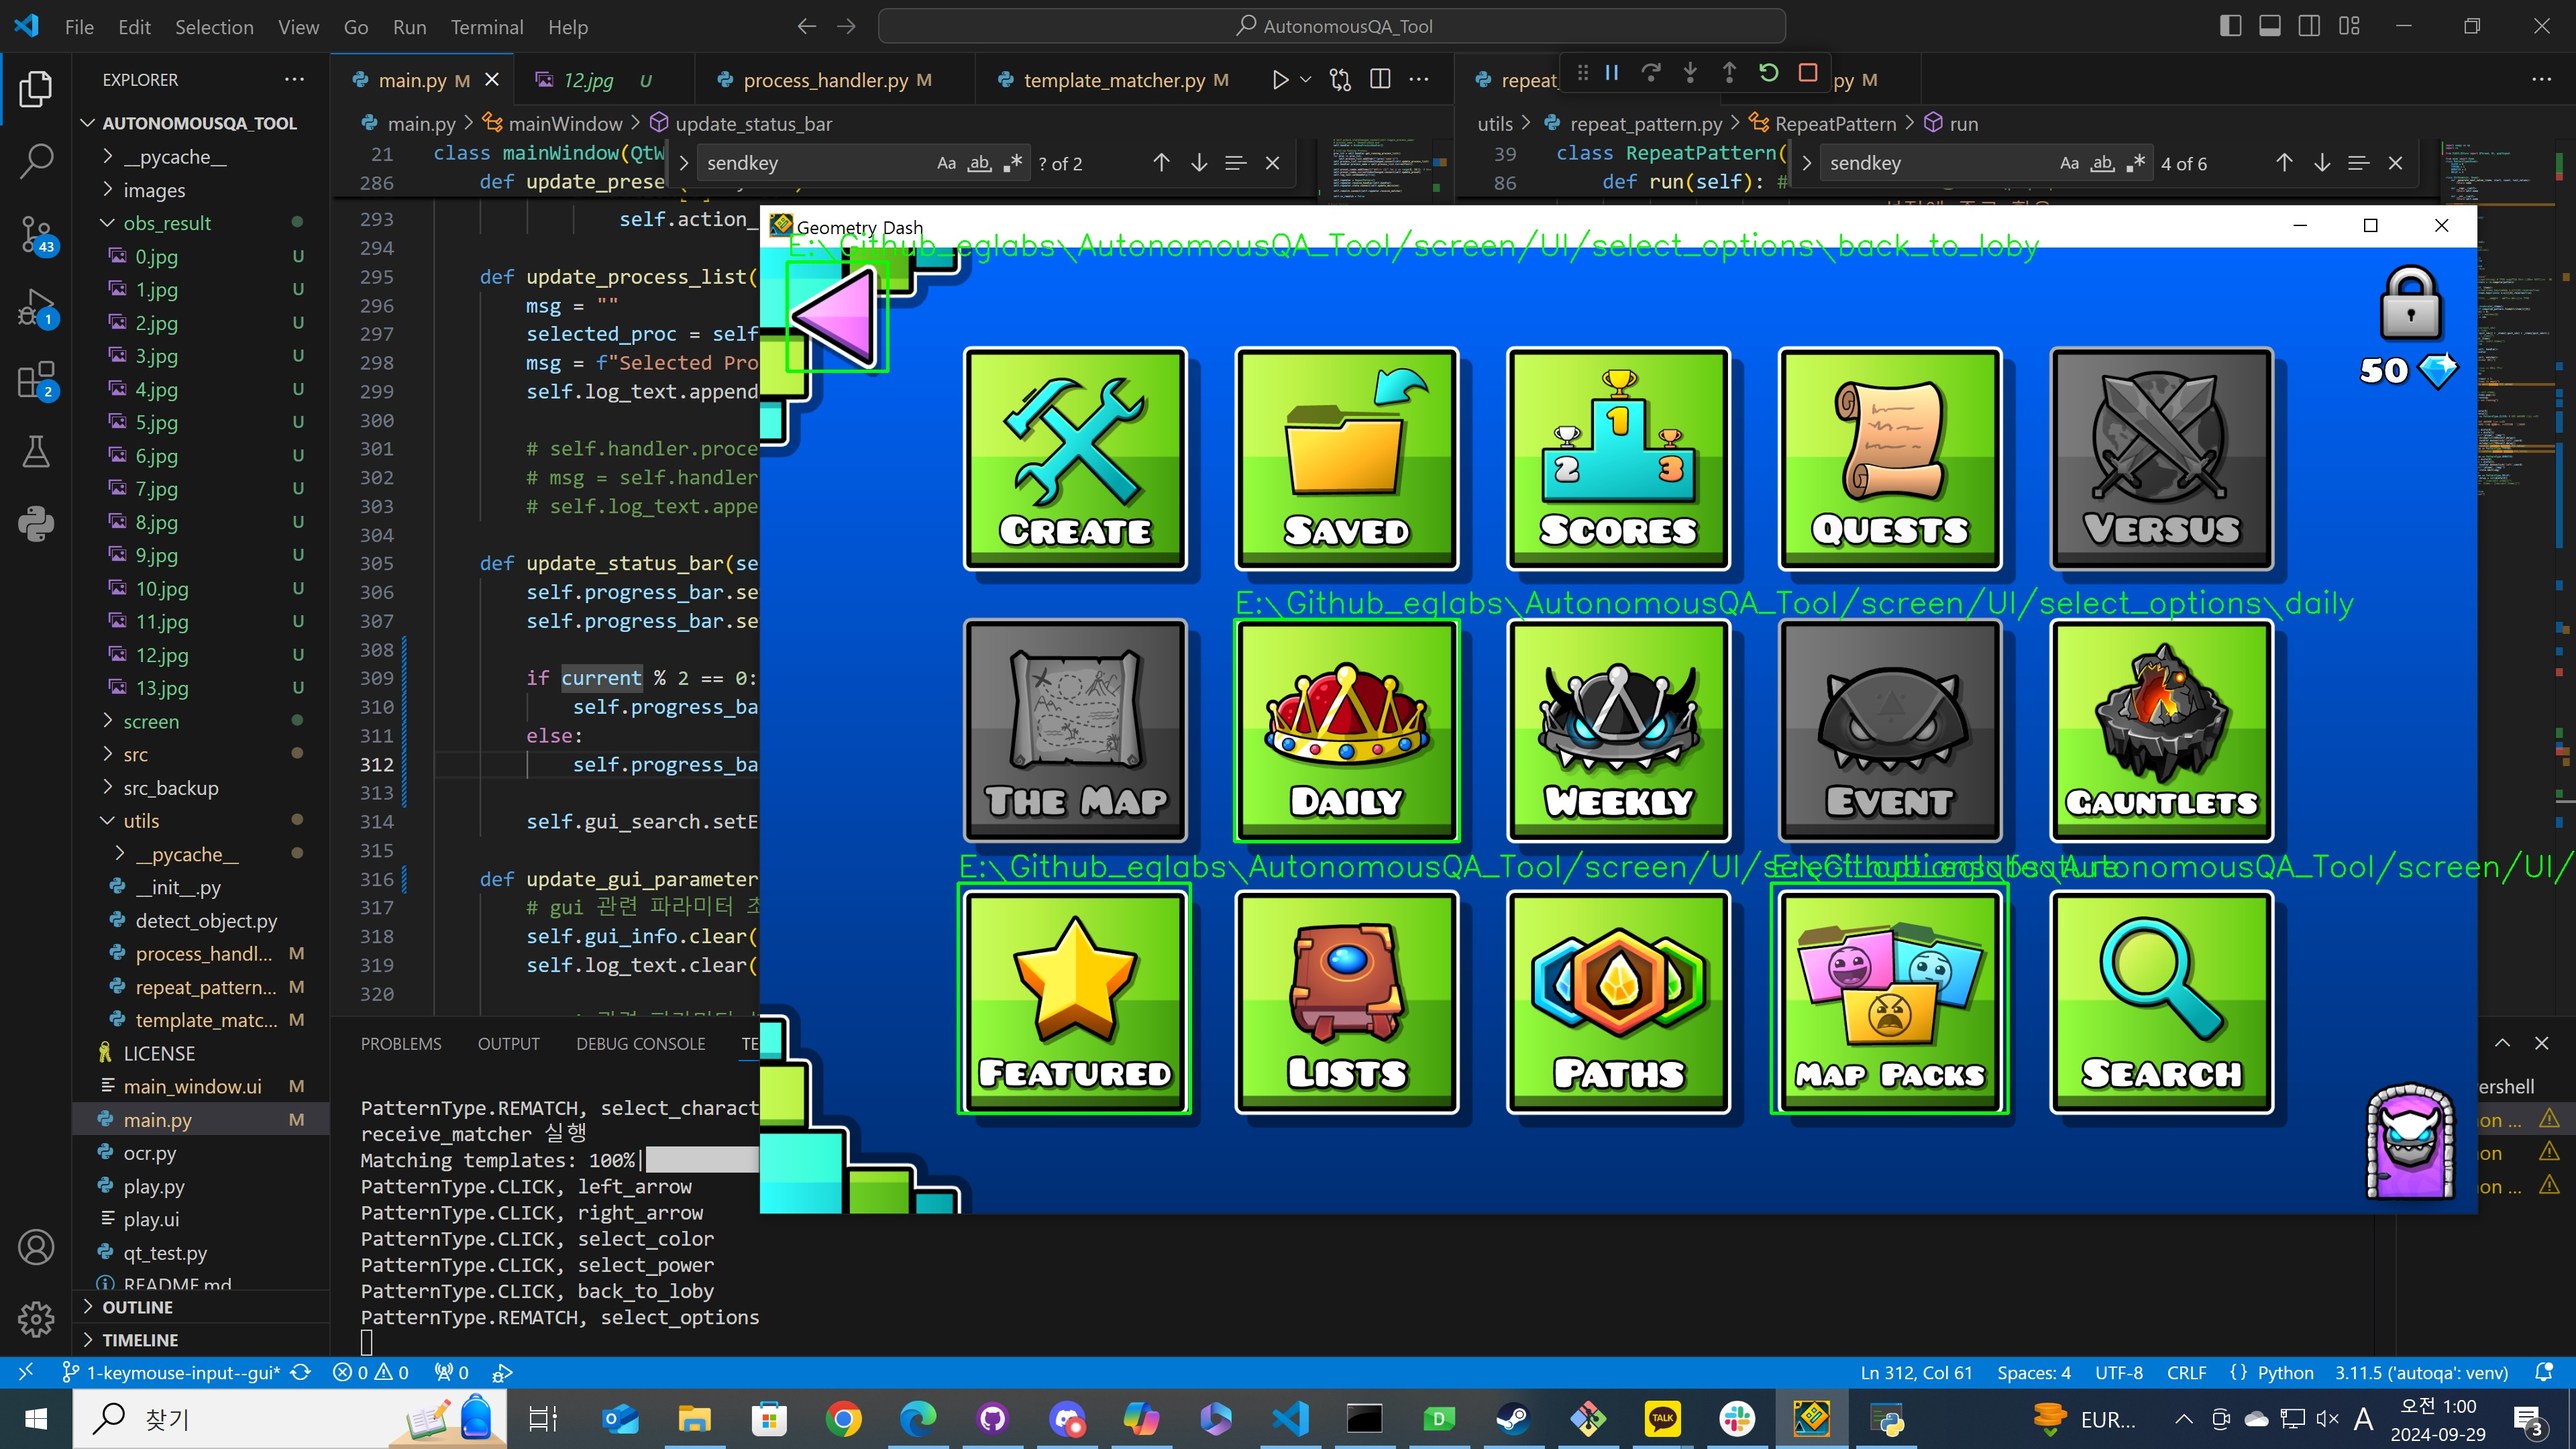
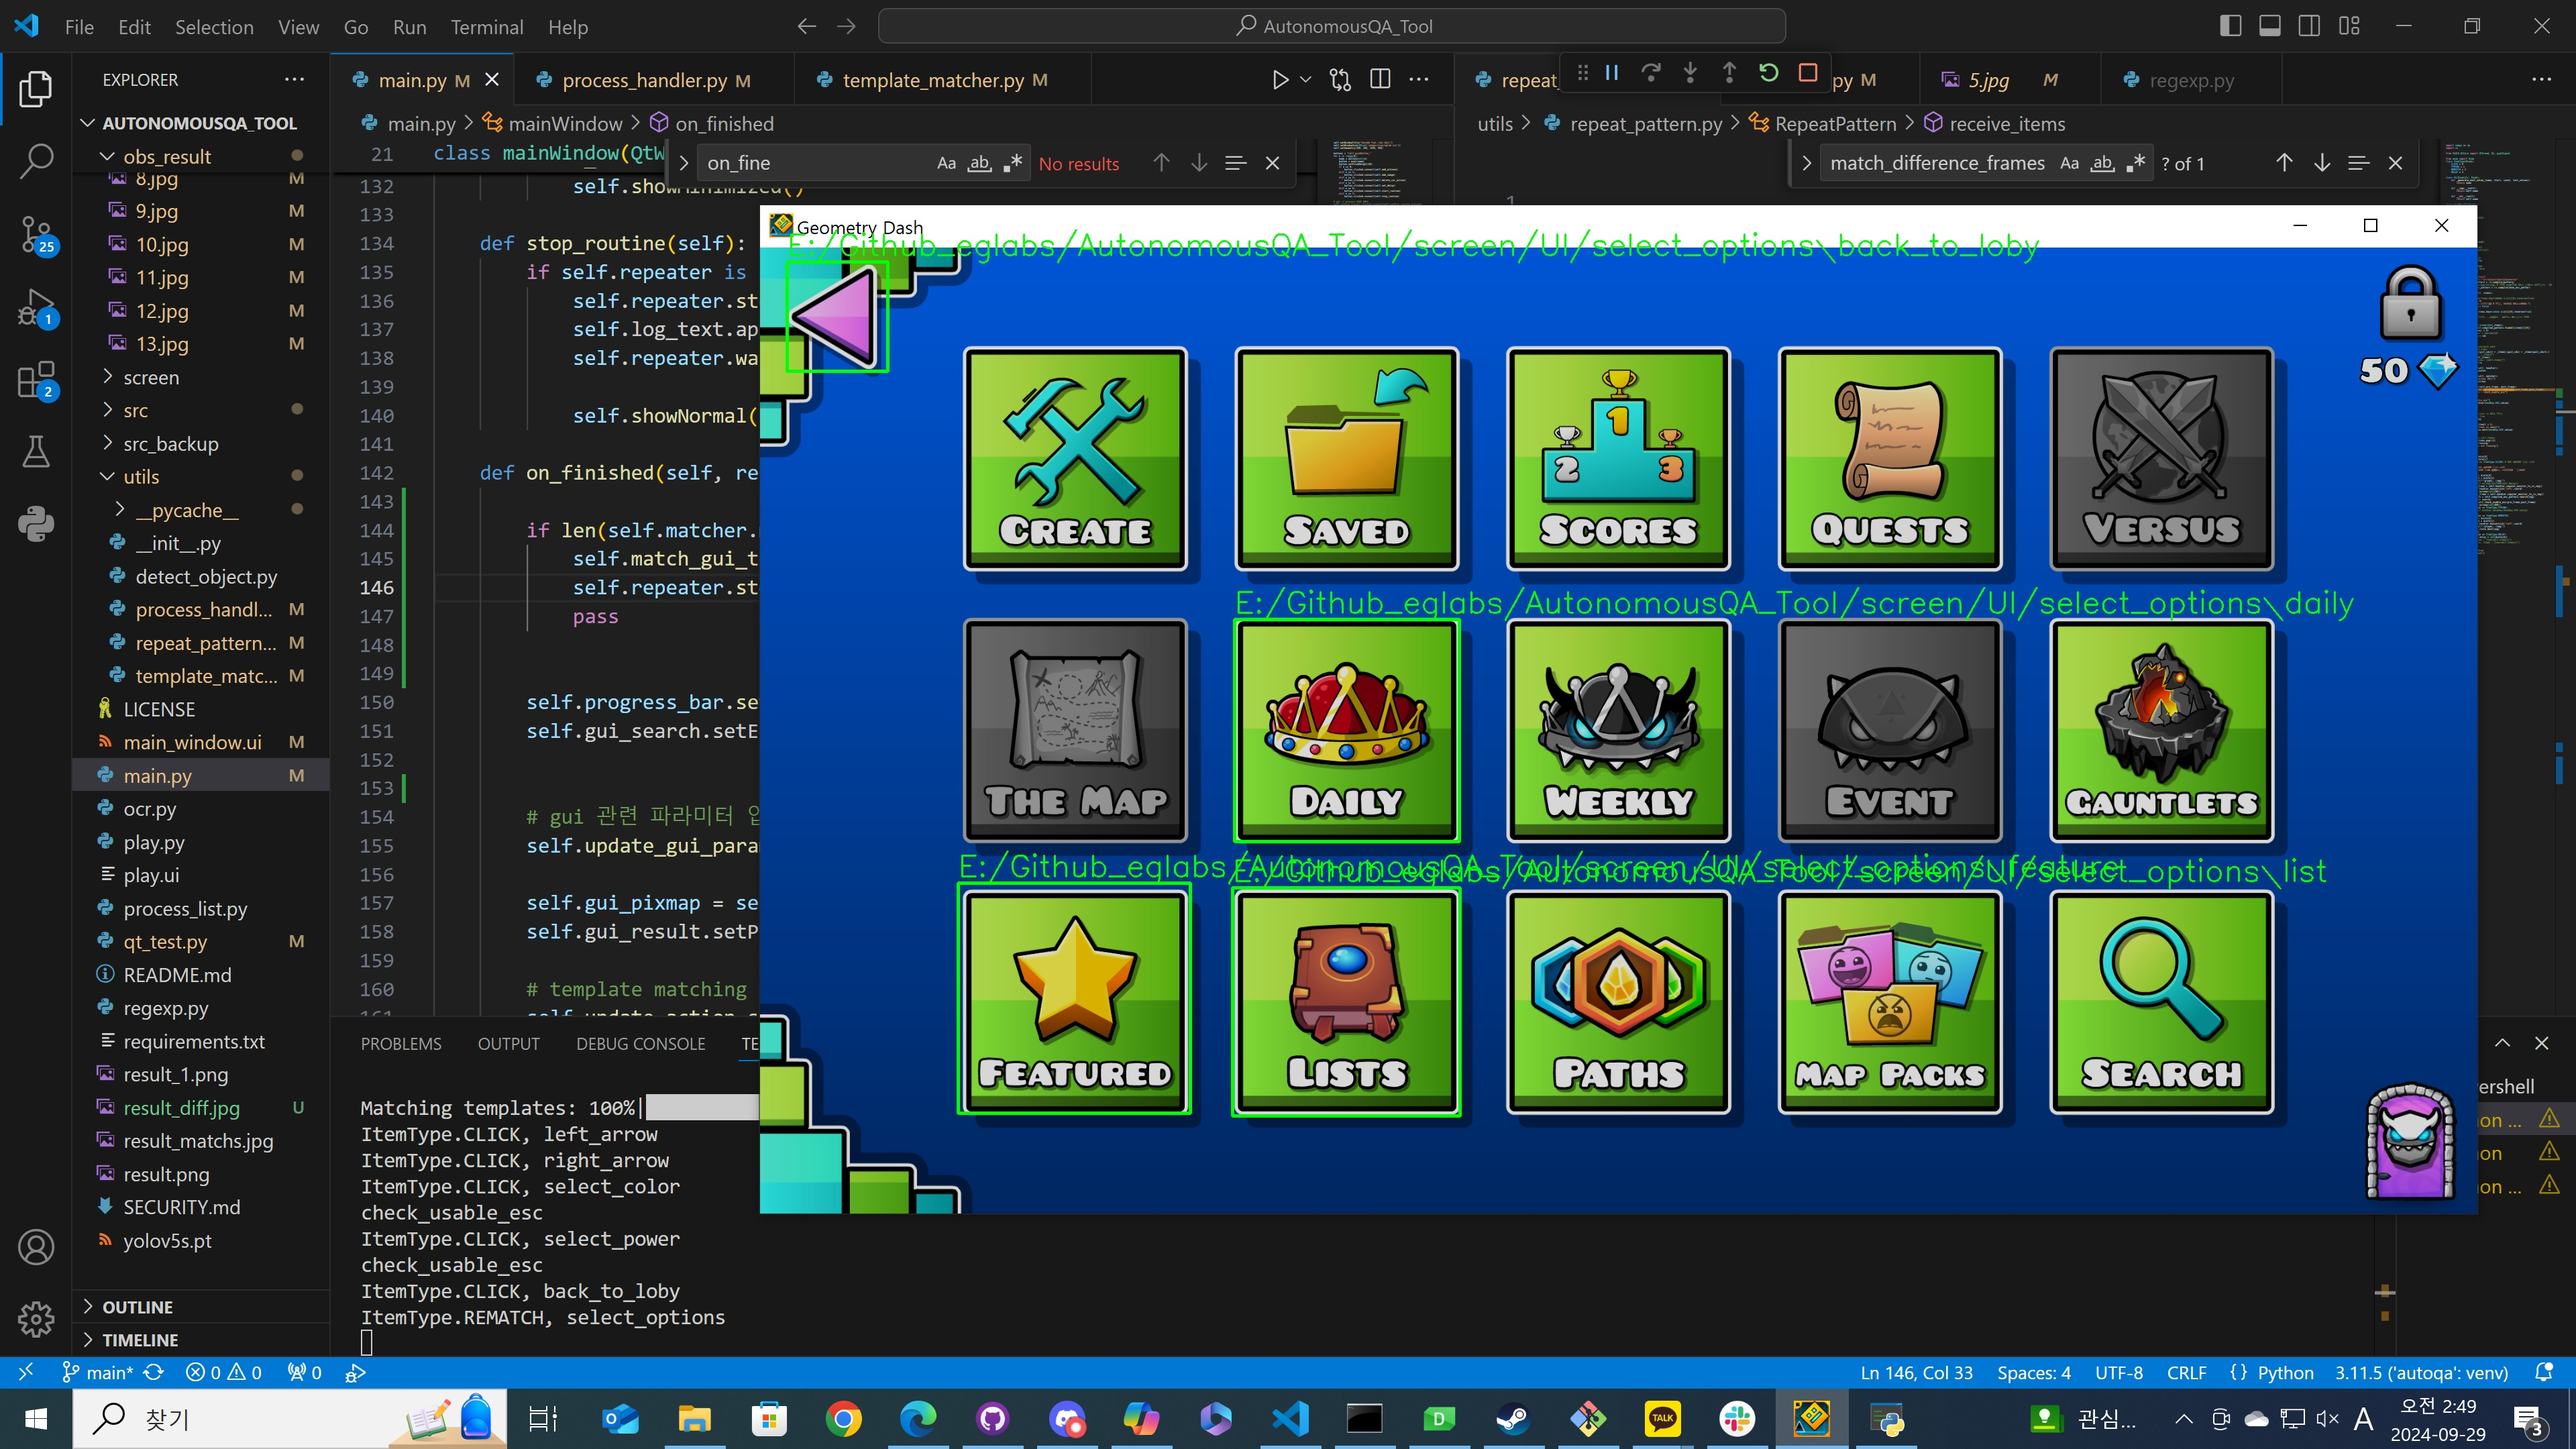
[Update] 키 오류 부분 수정

diff --git a/main.py b/main.py
@@ -73,6 +73,8 @@ class mainWindow(QtWidgets.QMainWindow):
         
         self.gui_pixmap = QPixmap()
         
+        self.auto_play.clicked.connect(self.play_auto)
+        
         # 프로세스 handler
         # process_name = 'Geometry Dash'
         # self.process_name.setText(process_name)
@@ -100,6 +102,8 @@ class mainWindow(QtWidgets.QMainWindow):
         
         self.is_rematch = False
         
+        
+        
 
     # Event Section
     def resizeEvent(self, event):
@@ -108,6 +112,12 @@ class mainWindow(QtWidgets.QMainWindow):
 
     def closeEvent(self, event):
         event.accept()
+    
+    def play_auto(self):
+        self.confirm_running_process()
+        self.match_gui_templates()
+        # self.start_routine()
+        
     
     # Function Section
     def start_routine(self):
@@ -130,8 +140,16 @@ class mainWindow(QtWidgets.QMainWindow):
             self.showNormal()
     
     def on_finished(self, result_image):
+        
+        if len(self.matcher.matches) == 0:
+            self.match_gui_templates()
+            self.repeater.stop()
+            pass
+        
+        
         self.progress_bar.setFormat(" I got it.! ")
         self.gui_search.setEnabled(True)
+        
         
         # gui 관련 파라미터 업데이트
         self.update_gui_parameters(self.matcher)
@@ -151,6 +169,7 @@ class mainWindow(QtWidgets.QMainWindow):
         # else:
             # self.showNormal()
         
+        self.start_routine()    
 
     def open_browser(self):
         # options = QtWidgets.QFileDialog.Options()
@@ -203,11 +222,11 @@ class mainWindow(QtWidgets.QMainWindow):
         image = self.handler.caputer_monitor_to_cv_img()
 
         # threshhold = 0.9
-        self.matcher = UITemplateMatcher(image,templates, scale_range=(0.7, 1.2), scale_step=0.1)#,threshold=threshhold)
+        self.matcher = UITemplateMatcher(image,templates, scale_range=(0.7, 1.0), scale_step=0.1)#,threshold=threshhold)
         self.matcher.update_progress.connect(self.update_status_bar)  # 시그널 연결
         self.matcher.finished.connect(self.on_finished)  # 작업 완료 시그널 연결
         self.matcher.start()  # QThread 시작
-        
+        self.rematch.emit(self.matcher) 
         # self.repeater.receive_matcher(self.matcher)
 
     
@@ -307,9 +326,9 @@ class mainWindow(QtWidgets.QMainWindow):
         self.progress_bar.setValue(current)
         
         if current % 2 == 0:
-            self.progress_bar.setFormat("....".format(int(current/total*100)))
+            self.progress_bar.setFormat("....")
         else:
-            self.progress_bar.setFormat("...".format(int(current/total*100)))
+            self.progress_bar.setFormat("...")
         
         self.gui_search.setEnabled(False)
 
@@ -394,10 +413,10 @@ class mainWindow(QtWidgets.QMainWindow):
         # 윈도우 화면 전체 캡쳐
         image = self.handler.caputer_monitor_to_cv_img()
         
-        self.matcher = UITemplateMatcher(image,templates, scale_range=(0.7, 1.2), scale_step=0.1)#,threshold=threshhold)
+        self.matcher = UITemplateMatcher(image,templates, scale_range=(0.7, 1.0), scale_step=0.1)#,threshold=threshhold)
         self.matcher.update_progress.connect(self.update_status_bar)  # 시그널 연결
         self.matcher.finished.connect(self.on_finished)  # 작업 완료 시그널 연결
-        # self.matcher.start()  # QThread 시작
+        self.matcher.start()  # QThread 시작
         # QThread 쪽으로 호출
         self.rematch.emit(self.matcher)
         

diff --git a/utils/repeat_pattern.py b/utils/repeat_pattern.py
@@ -50,13 +50,20 @@ class RepeatPattern(QThread):
         self.delay = 1.5
         
         pattern = r"quit|back"
-        # pattern = re.escape(string) # 특정 문자열을 정규 표현식 패턴으로 변환
+        none_esc_patter = r"arrow|quit|back|keymaster"
         self.compiled_pattern = re.compile(pattern)
+        # pattern = re.escape(string) # 특정 문자열을 정규 표현식 패턴으로 변환
+        self.compiled_esc_pattern = re.compile(none_esc_patter)
     
     def receive_items(self, items):
-        # self.items = sorted(items,key=lambda x:x[1][0],reverse=True)
+        
+        # _items = sorted(items,key=lambda x:x[1][0],reverse=True)
+        if len(items) == 0:
+            print(f"Items 사이즈가 0 이라, 루틴을 종료합니다.")
+            self.running = False
+            return
         _items = sorted(items,key=lambda x:x[1][0],reverse=True)
-            
+        
         # 정규표현식을 이용해, 돌아가는 유아이를 맨앞으로 이동         
         quit_idx = 0
         # quit_str = ""
@@ -81,7 +88,17 @@ class RepeatPattern(QThread):
         
     def receive_matcher(self, matcher):
         print("receive_matcher 실행")
-        matcher.start()
+        self.matcher = matcher
+    
+    def check_usable_esc(self,pre_frame, post_frame):
+        if not self.matcher.match_difference_frames(pre_frame,post_frame):
+            print("return - check_usable_esc")
+            return
+        
+        print("check_usable_esc")
+        self.handler.sendkey(SendKey.ESC.value)
+    
+    
     
     def run(self): # ctrl+esc 로 종료 메시지
         # self.running = True
@@ -109,10 +126,15 @@ class RepeatPattern(QThread):
                     img = dinfo[0]
                     coord = dinfo[1]
                     print(f"{ptype}, {img}")
-                    self.msleep(int(500*self.delay))
+                    # self.msleep(int(500*self.delay))
+                    pre_frame = self.handler.caputer_monitor_to_cv_img()
                     self.handler.mouseclick('left',coord)
-                    self.msleep(int(700*self.delay))
-                    self.handler.sendkey(SendKey.ESC.value)
+                    self.msleep(int(700))
+                    post_frame = self.handler.caputer_monitor_to_cv_img()
+                    search = self.compiled_esc_pattern.search(img)
+                    if not search:
+                        self.check_usable_esc(pre_frame,post_frame)
+                    self.msleep(int(400))
                 elif ptype == ItemType.TYPING:
                     # self.handler.sendkey(SendKey.ESC.value)
                     pass

diff --git a/utils/template_matcher.py b/utils/template_matcher.py
@@ -46,6 +46,31 @@ class UITemplateMatcher(QThread):
         self.lock = threading.Lock()
         self.gray_frame = cv2.cvtColor(frame, cv2.COLOR_BGR2GRAY)
     
+    def match_difference_frames(self, src, des):
+        # 두 프레임을 그레이스케일로 변환
+        gray1 = cv2.cvtColor(src, cv2.COLOR_BGR2GRAY)
+        gray2 = cv2.cvtColor(des, cv2.COLOR_BGR2GRAY)
+
+        # 두 프레임 사이의 차이 계산
+        diff = cv2.absdiff(gray1, gray2)
+
+        # 차이 이미지를 이진화
+        _, thresh = cv2.threshold(diff, 30, 255, cv2.THRESH_BINARY)
+
+        # 변화된 부분을 강조하기 위해 윤곽선 찾기
+        contours, _ = cv2.findContours(thresh, cv2.RETR_EXTERNAL, cv2.CHAIN_APPROX_SIMPLE)
+
+        is_diff = False
+        # 원본 프레임에 변화된 부분을 강조
+        for contour in contours:
+            if cv2.contourArea(contour) > 600:  # 너무 작은 변화는 무시
+                is_diff = True
+                x, y, w, h = cv2.boundingRect(contour)
+                cv2.rectangle(src, (x, y), (x + w, y + h), (0, 0, 255), 5)
+                break
+
+        return is_diff
+
     def match_templates(self, template, pbar):
         # Dict 처리
         template_tuple = [ (k,v) for k,v in template.items()][0]

diff --git a/utils/process_handler.py b/utils/process_handler.py
@@ -182,19 +182,19 @@ class WindowProcessHandler():
     
     @os_specific_task("Windows")
     def mouseclick(self, button: str, coords: tuple):
-        # def task():
+        def task():
         # self.window_process.set_focus()
-        self.window_process.activate()
-        mouse.click(button=button, coords=coords)
-        # threading.Thread(target=task).start()
+            self.window_process.activate()
+            mouse.click(button=button, coords=coords)
+        threading.Thread(target=task).start()
     
     @os_specific_task("Windows")
     def sendkey(self, key: str):
-        # def task():
+        def task():
         # self.window_process.set_focus()
-        self.window_process.activate()
-        keyboard.send_keys(key)
-        # threading.Thread(target=task).start()
+            self.window_process.activate()
+            keyboard.send_keys(key)
+        threading.Thread(target=task).start()
     
     @os_specific_task("Windows")
     def captuer_screen_on_application(self):
